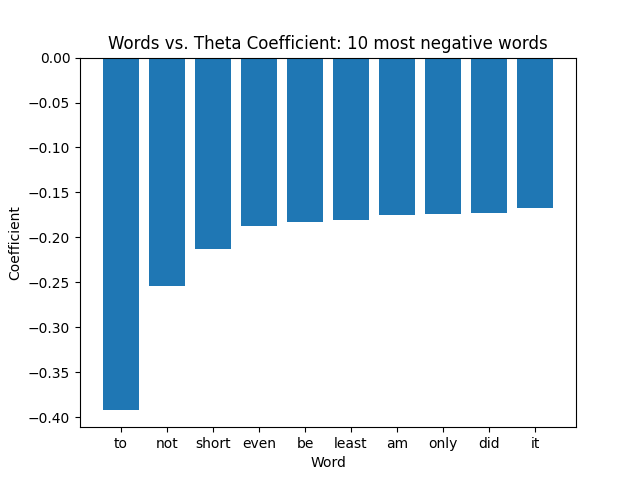
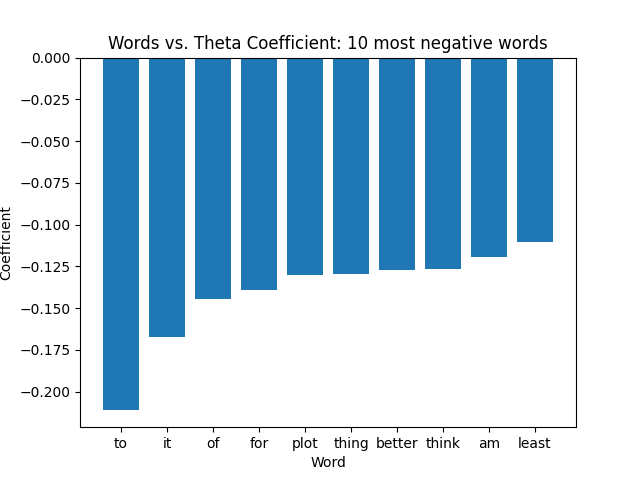
Up to 3.2 B

diff --git a/project1.py b/project1.py
@@ -329,6 +329,9 @@ def select_param_quadratic(X, y, k=5, metric="accuracy", param_range=[]):
     l = list(sorted_c.items())
     best_C_val = l[0][0][0]
     best_r_val = l[0][0][1]
+
+    print("Best C: ", best_C_val, " | Best r: ", best_r_val, " | Metric ", metric, ": ", l[0][1])
+    print(sorted_c)
     return best_C_val,best_r_val
 
 def main():
@@ -355,7 +358,7 @@ def main():
     # word_at_index = list(t[4].keys())[list(t[4].values()).index(index_max)]
     # print("Word appearing in the most number of reviews: ", word_at_index)
 
-    # Question 2D
+    # Question 3D
     # X_train, Y_train, X_test, Y_test, dictionary_binary = get_split_binary_data()
     # C_range = np.array([0.001, 0.01, 0.1, 1., 10., 100., 1000.])
     # select_param_linear(X_train, Y_train, 5, 'accuracy', C_range, 'l2')
@@ -375,19 +378,29 @@ def main():
     # select_param_linear(X_train, Y_train, 5, 'sensitivity', C_range, 'l2')
     # select_param_linear(X_train, Y_train, 5, 'specificity', C_range, 'l2')
 
-    # Question 2F
-    # X_train, Y_train, X_test, Y_test, dictionary_binary = get_split_binary_data()
-    # C_range = np.array([0.001, 0.01, 0.1, 1., 10., 100., 1000.])
-    # plot_weight(X_train, Y_train, penalty="l2", C_range=C_range)
+    # Question 3F
+    print("============================QUESTION 3.1 F/G============================")
+    X_train, Y_train, X_test, Y_test, dictionary_binary = get_split_binary_data()
+    C_range = np.array([0.001, 0.01, 0.1, 1., 10., 100., 1000.])
+    plot_weight(X_train, Y_train, penalty="l2", C_range=C_range)
 
+    print("============================QUESTION 3.1 H============================")
+    print_bar(X_train, Y_train, dictionary_binary)
+
+    print("============================QUESTION 3.2 B============================")
+    print("GRID SEARCH")
+    param_range = [[C, r] for C in np.logspace(-3, 3, 7) for r in np.logspace(-3, 3, 7)]
+    select_param_quadratic(X_train, Y_train, 5, metric="auroc", param_range=param_range)
+    powers = np.random.uniform(-3.0, 3.0, (25, 2))
+    tens = np.full((25,2), 10)
+    new_param_range = tens ** powers
+    select_param_quadratic(X_train, Y_train, 5, metric="auroc", param_range=new_param_range)
 
     # Read multiclass data
     # TODO: Question 5: Apply a classifier to heldout features, and then use
     #       generate_challenge_labels to print the predicted labels
     # multiclass_features, multiclass_labels, multiclass_dictionary = get_multiclass_training_data()
     # heldout_features = get_heldout_reviews(multiclass_dictionary)
-    X_train, Y_train, X_test, Y_test, dictionary_binary = get_split_binary_data(class_size=50)
-    print_bar(X_train, Y_train, dictionary_binary)
 
     
 
